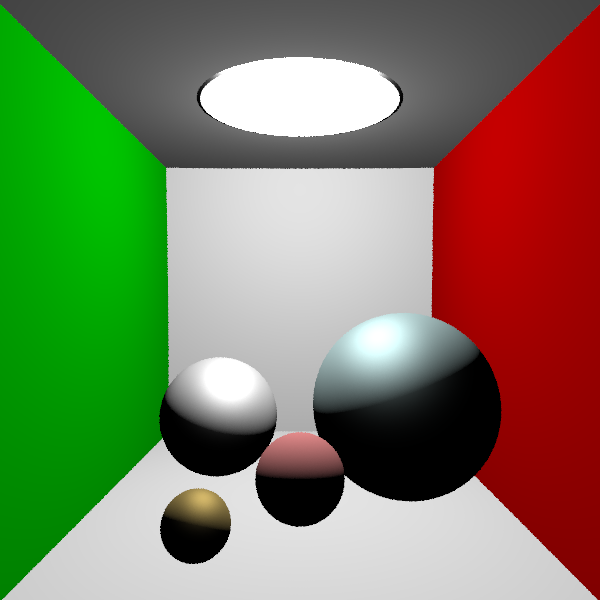
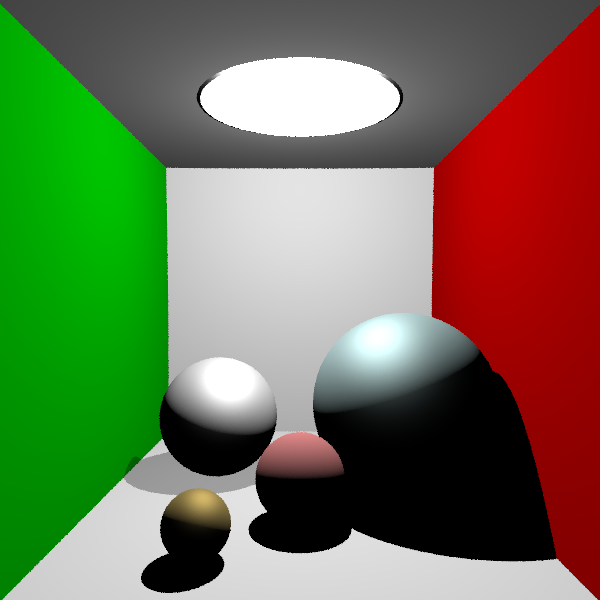
add(shadow)

Changed region(s): [[0.39, 0.6, 0.93, 0.96], [0.21, 0.75, 0.45, 0.84], [0.24, 0.9, 0.39, 0.99]]

diff --git a/src/sence.py b/src/sence.py
@@ -7,7 +7,7 @@ from tqdm import tqdm
 from src.camera import *
 from src.geometry import Primitive
 from src.lights import Light
-from src.materials import Material
+from src.materials import *
 from src.utils import normalize
 
 
@@ -68,7 +68,9 @@ class Sence:
         diffuse_weight = hit_record.obj.material.diffuse
         specular_color = specular_reflect(self.lights, ray, hit_record)
         specular_weight = hit_record.obj.material.specular
-        return diffuse_weight * diffuse_color + specular_weight * specular_color
+        color = diffuse_weight * diffuse_color + specular_weight * specular_color
+        shadow_weight = self.add_shadow(hit_record)
+        return color * shadow_weight
 
     def hit(self, ray: Ray):
         hit_record = None
@@ -79,6 +81,21 @@ class Sence:
                 hit_record = hit_event
                 closest_so_far = hit_event.distance
         return hit_record
+
+    def add_shadow(self, hit_record):
+        point = hit_record.point
+        obj = hit_record.obj
+        shadow_weight = 1.0
+        for light in self.lights:
+            light_dir = light.get_direction(point)
+            light_ray = Ray(light.position, light_dir)
+            hit_from_light = self.hit(light_ray)
+        if hit_from_light.obj is not obj:
+            if isinstance(hit_from_light.obj.material, GlassMaterial):
+                shadow_weight = 0.5
+            else:
+                shadow_weight = 0
+        return shadow_weight
 
 
 def lambertian_reflect(lights, hit_record):

diff --git a/src/materials.py b/src/materials.py
@@ -19,6 +19,11 @@ class FuzzyMaterial(Material):
         super().__init__(ambient=1, diffuse=0.5, specular=0.5, color=color)
 
 
+class GlassMaterial(Material):
+    def __in__it__(self, color=np.array([0.8, 0.8, 0.8])):
+        super().__init__(ambient=1, diffuse=0.3, specular=0.8, color=color)
+
+
 class LightMaterial(Material):
     def __init__(self, color=np.array([10, 10, 10])):
         super().__init__(ambient=100, diffuse=100, specular=100, color=color)

diff --git a/assets/cornell_box.py b/assets/cornell_box.py
@@ -50,7 +50,7 @@ metal_ball = Sphere(
 glass_ball = Sphere(
     center=np.array([-0.7, 0.0, 0.5]),
     radius=0.5,
-    material=Material(color=np.array([1.0, 1.0, 1.0])),
+    material=GlassMaterial(color=np.array([1.0, 1.0, 1.0])),
 )
 fuzz_metal_ball = Sphere(
     center=np.array([-0.6, -0.3, 2.0]),
